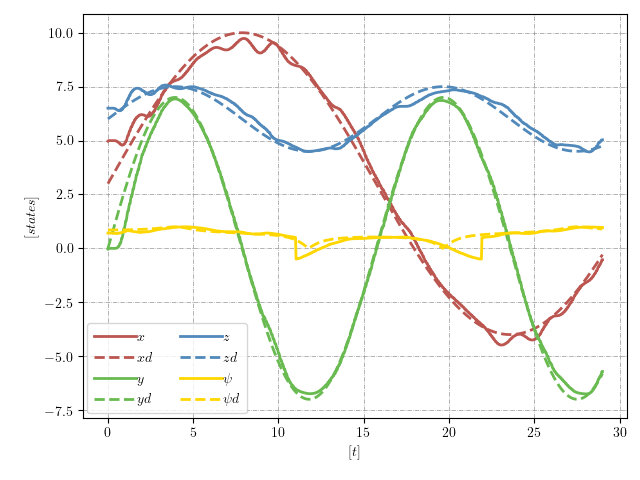
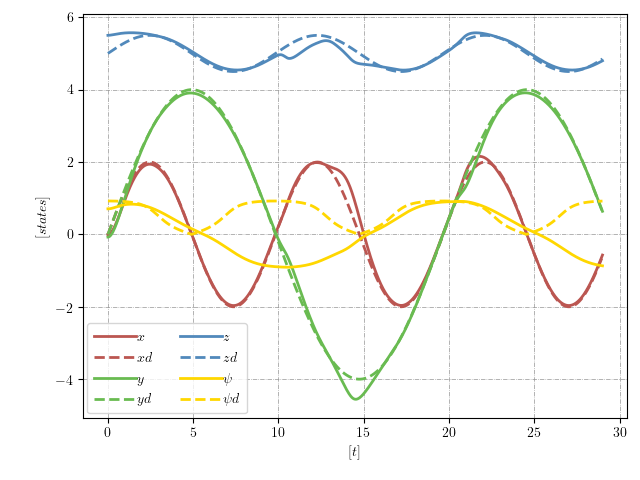
Real test

diff --git a/c_generated_code/acados_solver_Drone_ode.c b/c_generated_code/acados_solver_Drone_ode.c
@@ -586,28 +586,28 @@ void Drone_ode_acados_setup_nlp_in(Drone_ode_solver_capsule* capsule, const int 
     double* lbx0 = lubx0;
     double* ubx0 = lubx0 + NBX0;
     // change only the non-zero elements:
-    lbx0[0] = 4.9708708768380365;
-    ubx0[0] = 4.9708708768380365;
-    lbx0[1] = -0.0306195612476406;
-    ubx0[1] = -0.0306195612476406;
-    lbx0[2] = 6.499989032745361;
-    ubx0[2] = 6.499989032745361;
-    lbx0[3] = 0.70710914734876;
-    ubx0[3] = 0.70710914734876;
-    lbx0[4] = -0.000010837049331927869;
-    ubx0[4] = -0.000010837049331927869;
-    lbx0[5] = 0.000999883044089244;
-    ubx0[5] = 0.000999883044089244;
-    lbx0[6] = 0.7071037079892639;
-    ubx0[6] = 0.7071037079892639;
-    lbx0[7] = -0.010346098056450013;
-    ubx0[7] = -0.010346098056450013;
-    lbx0[8] = 0.009768322715533156;
-    ubx0[8] = 0.009768322715533156;
-    lbx0[9] = 0.000005237299319560407;
-    ubx0[9] = 0.000005237299319560407;
-    lbx0[10] = -0.000000635063315712614;
-    ubx0[10] = -0.000000635063315712614;
+    lbx0[0] = -0.006002924591752118;
+    ubx0[0] = -0.006002924591752118;
+    lbx0[1] = -0.07261979539763462;
+    ubx0[1] = -0.07261979539763462;
+    lbx0[2] = 5.500064373016357;
+    ubx0[2] = 5.500064373016357;
+    lbx0[3] = 0.7071703347185013;
+    ubx0[3] = 0.7071703347185013;
+    lbx0[4] = -0.0005842926378257056;
+    ubx0[4] = -0.0005842926378257056;
+    lbx0[5] = 0.0006849537125238465;
+    ubx0[5] = 0.0006849537125238465;
+    lbx0[6] = 0.7070426487381422;
+    ubx0[6] = 0.7070426487381422;
+    lbx0[7] = 0.0023348538307239554;
+    ubx0[7] = 0.0023348538307239554;
+    lbx0[8] = 0.00004944333821403482;
+    ubx0[8] = 0.00004944333821403482;
+    lbx0[9] = 0.0000061913151512271725;
+    ubx0[9] = 0.0000061913151512271725;
+    lbx0[10] = -0.000005271160716802115;
+    ubx0[10] = -0.000005271160716802115;
 
     ocp_nlp_constraints_model_set(nlp_config, nlp_dims, nlp_in, 0, "idxbx", idxbx0);
     ocp_nlp_constraints_model_set(nlp_config, nlp_dims, nlp_in, 0, "lbx", lbx0);
@@ -845,17 +845,17 @@ void Drone_ode_acados_set_nlp_out(Drone_ode_solver_capsule* capsule)
     double* x0 = xu0;
 
     // initialize with x0
-    x0[0] = 4.9708708768380365;
-    x0[1] = -0.0306195612476406;
-    x0[2] = 6.499989032745361;
-    x0[3] = 0.70710914734876;
-    x0[4] = -0.000010837049331927869;
-    x0[5] = 0.000999883044089244;
-    x0[6] = 0.7071037079892639;
-    x0[7] = -0.010346098056450013;
-    x0[8] = 0.009768322715533156;
-    x0[9] = 0.000005237299319560407;
-    x0[10] = -0.000000635063315712614;
+    x0[0] = -0.006002924591752118;
+    x0[1] = -0.07261979539763462;
+    x0[2] = 5.500064373016357;
+    x0[3] = 0.7071703347185013;
+    x0[4] = -0.0005842926378257056;
+    x0[5] = 0.0006849537125238465;
+    x0[6] = 0.7070426487381422;
+    x0[7] = 0.0023348538307239554;
+    x0[8] = 0.00004944333821403482;
+    x0[9] = 0.0000061913151512271725;
+    x0[10] = -0.000005271160716802115;
 
 
     double* u0 = xu0 + NX;

diff --git a/MPCC_SimpleModel_Quat_CLF_CBF.py b/MPCC_SimpleModel_Quat_CLF_CBF.py
@@ -52,12 +52,13 @@ wy_real = 0.0
 wz_real = 0.0
 
 # Definir el valor global
-value = 5
+value = 8
 valueB = 7 # Buencomportameinto con 5
 
-uav_r = 0.15
+r_helices = 0.165
+uav_r = 0.325 + r_helices
 margen = 0.1
-obsmovil_r = 0.4
+obsmovil_r = 0.25
 
 
 def f_system_simple_model_quat():
@@ -361,7 +362,7 @@ def create_ocp_solver_description(x0, N_horizon, t_horizon) -> AcadosOcp:
     nb_2_movil = vertcat(h_movil, Lf_h_movil) 
 
 
-    K_alpha = MX([20, 8]).T ## 20 8
+    K_alpha = MX([30, 25]).T ## 20 8
     K_alpha_movil = MX([20, 15]).T ## 20 8
 
     #constraints = vertcat(h_p + 5*nb_1)
@@ -413,45 +414,45 @@ def create_ocp_solver_description(x0, N_horizon, t_horizon) -> AcadosOcp:
 def trayectoria(t):
 
     def xd(t):
-        return 7 * np.sin(value * 0.04 * t) + 3
+        return 4 * np.sin(value * 0.04 * t) 
 
     def yd(t):
-        return 7 * np.sin(value * 0.08 * t)
+        return 2 * np.sin(value * 0.08 * t)
 
     def zd(t):
-        return 1.5 * np.sin(value * 0.08 * t) + 6
+        return 0.5 * np.sin(value * 0.08 * t) + 5
 
     def xd_p(t):
-        return 7 * value * 0.04 * np.cos(value * 0.04 * t)
+        return 4 * value * 0.04 * np.cos(value * 0.04 * t)
 
     def yd_p(t):
-        return 7 * value * 0.08 * np.cos(value * 0.08 * t)
+        return 2 * value * 0.08 * np.cos(value * 0.08 * t)
 
     def zd_p(t):
-        return 1.5 * value * 0.08 * np.cos(value * 0.08 * t)
+        return 0.5 * value * 0.08 * np.cos(value * 0.08 * t)
 
-    return xd, yd, zd, xd_p, yd_p, zd_p
+    return yd, xd, zd, yd_p, xd_p, zd_p
 
 def trayectoriaB(t):
     def xd(t):
-        return 7 * np.sin(-valueB * 0.04 * t) + 3
+        return 4 * np.sin(-valueB * 0.04 * t) 
 
     def yd(t):
-        return 7 * np.sin(-valueB * 0.08 * t)
+        return 2 * np.sin(-valueB * 0.08 * t)
 
     def zd(t):
-        return 1.5 * np.sin(-valueB * 0.08 * t) + 6
+        return 0.5 * np.sin(-valueB * 0.08 * t) + 5
 
     def xd_p(t):
-        return -7 * valueB * 0.04 * np.cos(-valueB * 0.04 * t)
+        return -4 * valueB * 0.04 * np.cos(-valueB * 0.04 * t)
 
     def yd_p(t):
-        return -7 * valueB * 0.08 * np.cos(-valueB * 0.08 * t)
+        return -2 * valueB * 0.08 * np.cos(-valueB * 0.08 * t)
 
     def zd_p(t):
-        return -1.5 * valueB * 0.08 * np.cos(-valueB * 0.08 * t)
+        return -0.5 * valueB * 0.08 * np.cos(-valueB * 0.08 * t)
 
-    return xd, yd, zd, xd_p, yd_p, zd_p
+    return yd, xd, zd, yd_p, xd_p, zd_p
 
 def calculate_errors_norm(sd, sd_p, model_x):
     """
@@ -830,7 +831,7 @@ def main(vel_pub, vel_msg, odom_sim_pub_1, odom_sim_msg_1):
         send_velocity_control(u_control[:, k], vel_pub, vel_msg)
 
         # System Evolution
-        opcion = "Real"  # Valor que quieres evaluar
+        opcion = "Sim"  # Valor que quieres evaluar
 
         if opcion == "Real":
             x[:, k+1] = get_odometry_simple_quat()

diff --git a/c_generated_code/main_Drone_ode.c b/c_generated_code/main_Drone_ode.c
@@ -75,28 +75,28 @@ int main()
     // initial condition
     double lbx0[NBX0];
     double ubx0[NBX0];
-    lbx0[0] = 4.9708708768380365;
-    ubx0[0] = 4.9708708768380365;
-    lbx0[1] = -0.0306195612476406;
-    ubx0[1] = -0.0306195612476406;
-    lbx0[2] = 6.499989032745361;
-    ubx0[2] = 6.499989032745361;
-    lbx0[3] = 0.70710914734876;
-    ubx0[3] = 0.70710914734876;
-    lbx0[4] = -0.000010837049331927869;
-    ubx0[4] = -0.000010837049331927869;
-    lbx0[5] = 0.000999883044089244;
-    ubx0[5] = 0.000999883044089244;
-    lbx0[6] = 0.7071037079892639;
-    ubx0[6] = 0.7071037079892639;
-    lbx0[7] = -0.010346098056450013;
-    ubx0[7] = -0.010346098056450013;
-    lbx0[8] = 0.009768322715533156;
-    ubx0[8] = 0.009768322715533156;
-    lbx0[9] = 0.000005237299319560407;
-    ubx0[9] = 0.000005237299319560407;
-    lbx0[10] = -0.000000635063315712614;
-    ubx0[10] = -0.000000635063315712614;
+    lbx0[0] = -0.006002924591752118;
+    ubx0[0] = -0.006002924591752118;
+    lbx0[1] = -0.07261979539763462;
+    ubx0[1] = -0.07261979539763462;
+    lbx0[2] = 5.500064373016357;
+    ubx0[2] = 5.500064373016357;
+    lbx0[3] = 0.7071703347185013;
+    ubx0[3] = 0.7071703347185013;
+    lbx0[4] = -0.0005842926378257056;
+    ubx0[4] = -0.0005842926378257056;
+    lbx0[5] = 0.0006849537125238465;
+    ubx0[5] = 0.0006849537125238465;
+    lbx0[6] = 0.7070426487381422;
+    ubx0[6] = 0.7070426487381422;
+    lbx0[7] = 0.0023348538307239554;
+    ubx0[7] = 0.0023348538307239554;
+    lbx0[8] = 0.00004944333821403482;
+    ubx0[8] = 0.00004944333821403482;
+    lbx0[9] = 0.0000061913151512271725;
+    ubx0[9] = 0.0000061913151512271725;
+    lbx0[10] = -0.000005271160716802115;
+    ubx0[10] = -0.000005271160716802115;
 
     ocp_nlp_constraints_model_set(nlp_config, nlp_dims, nlp_in, 0, "lbx", lbx0);
     ocp_nlp_constraints_model_set(nlp_config, nlp_dims, nlp_in, 0, "ubx", ubx0);

diff --git a/c_generated_code/Drone_ode_constraints/Drone_ode_constr_h_fun_jac_uxt_zt.c b/c_generated_code/Drone_ode_constraints/Drone_ode_constr_h_fun_jac_uxt_zt.c
@@ -428,7 +428,7 @@ static const casadi_int casadi_s29[3] = {3, 0, 0};
 
 static const casadi_real casadi_c0[9] = {1., 0., 0., 0., 1., 0., 0., 0., 1.};
 static const casadi_real casadi_c1[16] = {1., 0., 0., 0., 0., 1., 0., 0., 0., 0., 1., 0., 0., 0., 0., 1.};
-static const casadi_real casadi_c2[2] = {20., 8.};
+static const casadi_real casadi_c2[2] = {30., 25.};
 static const casadi_real casadi_c3[2] = {20., 15.};
 
 /* Drone_ode_constr_h_fun_jac_uxt_zt:(i0[11],i1[4],i2[],i3[25])->(o0[3],o1[15x3,40nz],o2[3x0]) */
@@ -1682,14 +1682,14 @@ static int casadi_f0(const casadi_real** arg, casadi_real** res, casadi_int* iw,
   w0 += w62;
   /* #574: @62 = 0 */
   w62 = 0.;
-  /* #575: @119 = [20, 8] */
+  /* #575: @119 = [30, 25] */
   casadi_copy(casadi_c2, 2, w119);
   /* #576: @120 = @119' */
   casadi_copy(w119, 2, w120);
   /* #577: @77 = 0.1 */
   w77 = 1.0000000000000001e-01;
-  /* #578: @55 = 0.15 */
-  w55 = 1.4999999999999999e-01;
+  /* #578: @55 = 0.49 */
+  w55 = 4.8999999999999999e-01;
   /* #579: @81 = input[3][21] */
   w81 = arg[3] ? arg[3][21] : 0;
   /* #580: @55 = (@55+@81) */
@@ -2485,8 +2485,8 @@ static int casadi_f0(const casadi_real** arg, casadi_real** res, casadi_int* iw,
   casadi_copy(casadi_c3, 2, w120);
   /* #960: @122 = @120' */
   casadi_copy(w120, 2, w122);
-  /* #961: @143 = 0.65 */
-  w143 = 6.5000000000000002e-01;
+  /* #961: @143 = 0.84 */
+  w143 = 8.3999999999999997e-01;
   /* #962: @143 = (@56-@143) */
   w143  = (w56-w143);
   /* #963: @126 = 0 */

diff --git a/c_generated_code/Drone_ode_constraints/Drone_ode_constr_h_fun.c b/c_generated_code/Drone_ode_constraints/Drone_ode_constr_h_fun.c
@@ -365,7 +365,7 @@ static const casadi_int casadi_s17[7] = {3, 1, 0, 3, 0, 1, 2};
 
 static const casadi_real casadi_c0[9] = {1., 0., 0., 0., 1., 0., 0., 0., 1.};
 static const casadi_real casadi_c1[16] = {1., 0., 0., 0., 0., 1., 0., 0., 0., 0., 1., 0., 0., 0., 0., 1.};
-static const casadi_real casadi_c2[2] = {20., 8.};
+static const casadi_real casadi_c2[2] = {30., 25.};
 static const casadi_real casadi_c3[2] = {20., 15.};
 
 /* Drone_ode_constr_h_fun:(i0[11],i1[4],i2[],i3[25])->(o0[3]) */
@@ -1618,13 +1618,13 @@ static int casadi_f0(const casadi_real** arg, casadi_real** res, casadi_int* iw,
   w0 += w62;
   /* #574: @62 = 0 */
   w62 = 0.;
-  /* #575: @83 = [20, 8] */
+  /* #575: @83 = [30, 25] */
   casadi_copy(casadi_c2, 2, w83);
   /* #576: @83 = @83' */
   /* #577: @54 = 0.1 */
   w54 = 1.0000000000000001e-01;
-  /* #578: @55 = 0.15 */
-  w55 = 1.4999999999999999e-01;
+  /* #578: @55 = 0.49 */
+  w55 = 4.8999999999999999e-01;
   /* #579: @72 = input[3][21] */
   w72 = arg[3] ? arg[3][21] : 0;
   /* #580: @55 = (@55+@72) */
@@ -2416,8 +2416,8 @@ static int casadi_f0(const casadi_real** arg, casadi_real** res, casadi_int* iw,
   /* #959: @83 = [20, 15] */
   casadi_copy(casadi_c3, 2, w83);
   /* #960: @83 = @83' */
-  /* #961: @48 = 0.65 */
-  w48 = 6.5000000000000002e-01;
+  /* #961: @48 = 0.84 */
+  w48 = 8.3999999999999997e-01;
   /* #962: @55 = (@55-@48) */
   w55 -= w48;
   /* #963: @48 = 0 */

diff --git a/c_generated_code/main_sim_Drone_ode.c b/c_generated_code/main_sim_Drone_ode.c
@@ -76,17 +76,17 @@ int main()
     x_current[10] = 0.0;
 
   
-    x_current[0] = 4.9708708768380365;
-    x_current[1] = -0.0306195612476406;
-    x_current[2] = 6.499989032745361;
-    x_current[3] = 0.70710914734876;
-    x_current[4] = -0.000010837049331927869;
-    x_current[5] = 0.000999883044089244;
-    x_current[6] = 0.7071037079892639;
-    x_current[7] = -0.010346098056450013;
-    x_current[8] = 0.009768322715533156;
-    x_current[9] = 0.000005237299319560407;
-    x_current[10] = -0.000000635063315712614;
+    x_current[0] = -0.006002924591752118;
+    x_current[1] = -0.07261979539763462;
+    x_current[2] = 5.500064373016357;
+    x_current[3] = 0.7071703347185013;
+    x_current[4] = -0.0005842926378257056;
+    x_current[5] = 0.0006849537125238465;
+    x_current[6] = 0.7070426487381422;
+    x_current[7] = 0.0023348538307239554;
+    x_current[8] = 0.00004944333821403482;
+    x_current[9] = 0.0000061913151512271725;
+    x_current[10] = -0.000005271160716802115;
     
   
 

diff --git a/P_UAV_simple.py b/P_UAV_simple.py
@@ -69,9 +69,9 @@ def main(vel_pub, vel_msg ):
     
     # Reference Signal of the system
     xref = np.zeros((12, t.shape[0]), dtype = np.double)
-    xref[0,:] = 5
+    xref[0,:] = 0
     xref[1,:] = 0
-    xref[2,:] = 6.5
+    xref[2,:] = 5.5
     xref[3,:] = 90* (math.pi / 180)
     xref[4,:] = 0
     xref[5,:] = 0

diff --git a/Calibracion.py b/Calibracion.py
@@ -71,7 +71,7 @@ def main(vel_pub, vel_msg ):
     xref = np.zeros((12, t.shape[0]), dtype = np.double)
     xref[0,:] = 0
     xref[1,:] = 0
-    xref[2,:] = 6.5
+    xref[2,:] = 5.5
     xref[3,:] = 90* (math.pi / 180)
     xref[4,:] = 0
     xref[5,:] = 0
